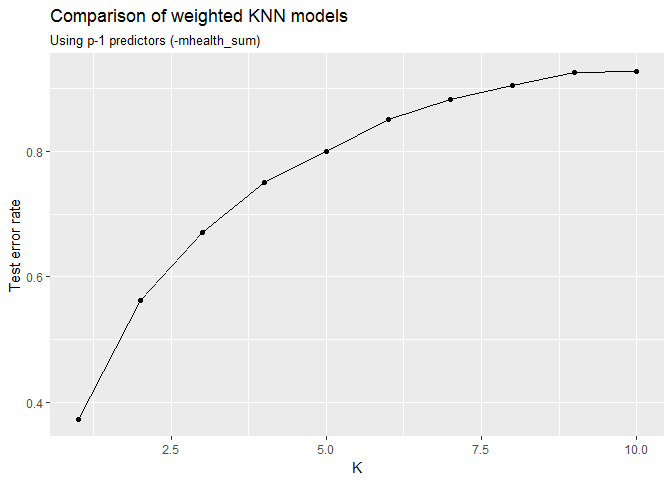
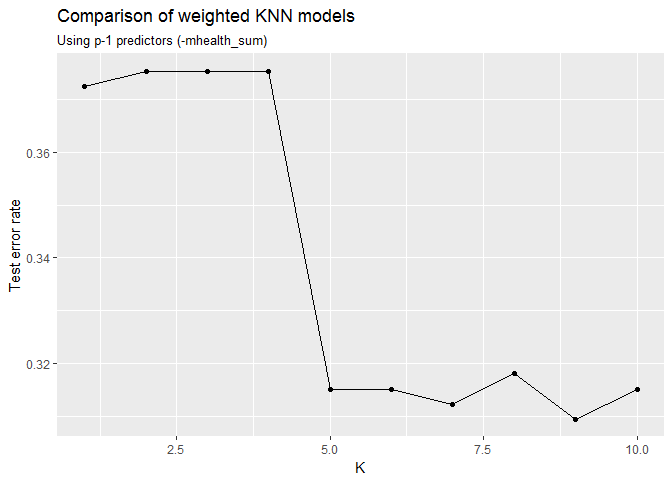
update last

diff --git a/students/Kang_Bobae/PS9/Kang_persp-model_PS9.md b/students/Kang_Bobae/PS9/Kang_persp-model_PS9.md
@@ -177,15 +177,15 @@ Test error rate for weighted KNN models
 
 Then, I fit a weighted KNN model using the same combination of predictors as the previous KNN model with the least test error rate.
 
-The weighted KNN model with *k* = 1 gives the least test error rate (0.372). The following plot shows the error rates of models with different *k* values. Also, the table belowe three the five of the KNN models sorted by test error rates:
+The weighted KNN model with *k* = 9 gives the least test error rate (0.309). The following plot shows the error rates of models with different *k* values. Also, the table belowe three the five of the KNN models sorted by test error rates:
 
 ![](Kang_persp-model_PS9_files/figure-markdown_github/Part%202%20wKNN-1.png)
 
 |    k|  err.rate|
 |----:|---------:|
-|    1|   0.37249|
-|    2|   0.56160|
-|    3|   0.67049|
+|    9|   0.30946|
+|    7|   0.31232|
+|    5|   0.31519|
 
 Comparison of KNN/weighted KNN to other models
 ----------------------------------------------
@@ -206,7 +206,7 @@ The following table summarizes the error rates of all fitted models sorted by te
 | Boosting            |   0.26934|
 | Logistic regression |   0.27819|
 | Decision tree       |   0.30372|
-| Weighted KNN        |   0.37249|
+| Weighted KNN        |   0.30946|
 | Random Forest       |   1.00000|
 
 The table shows that the KNN model has the lowest test error rate of all (0.120).
